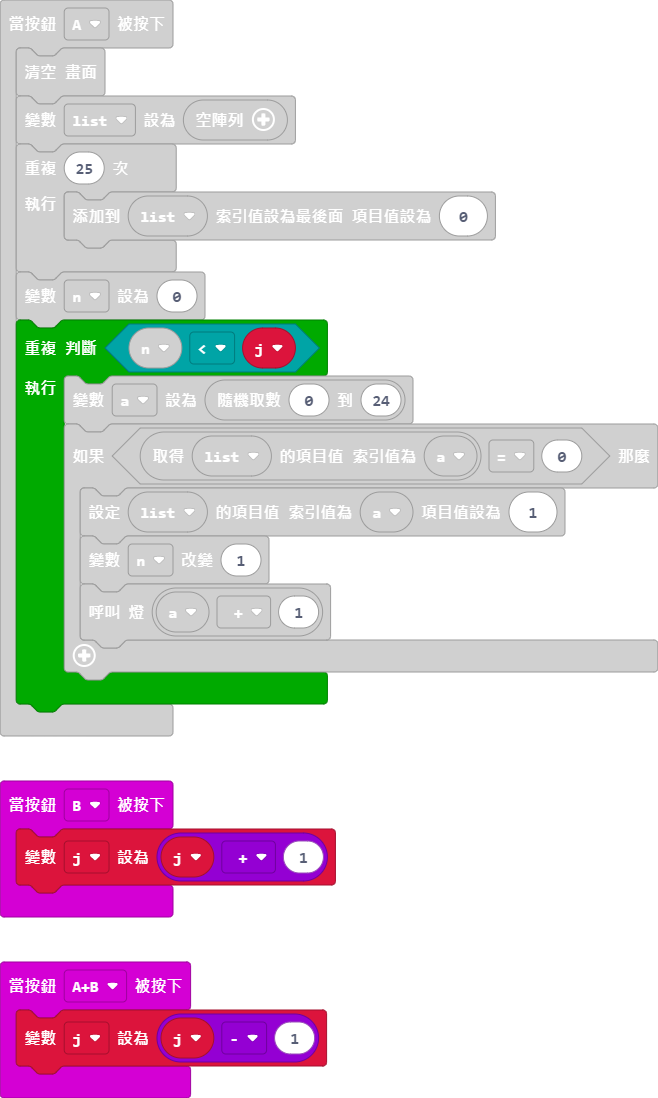
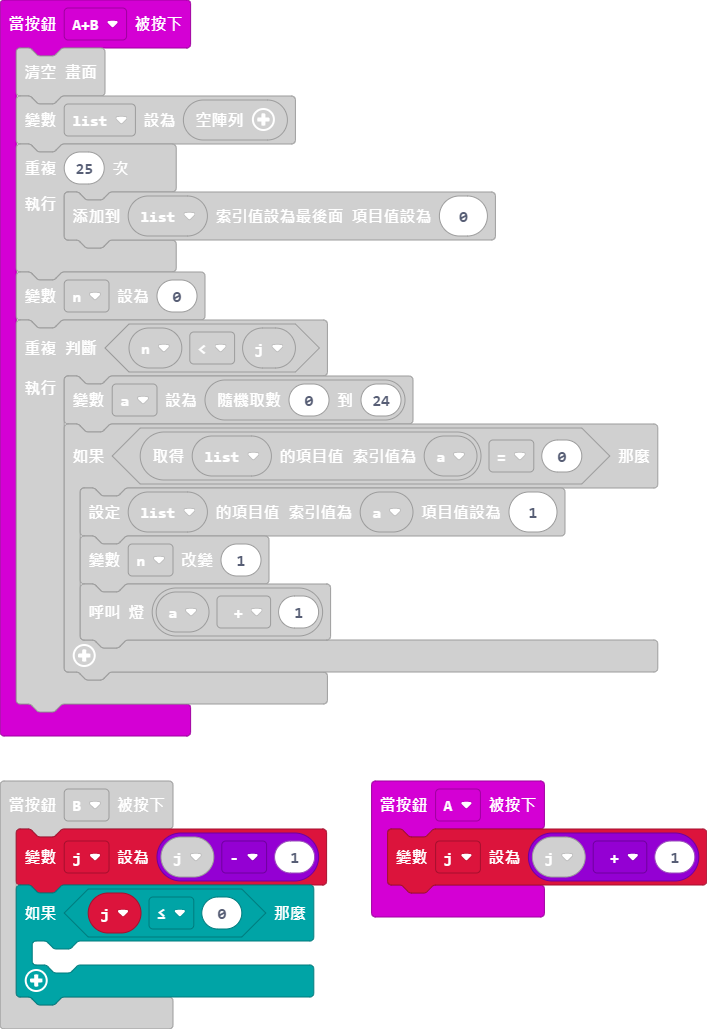
更新 main.blocks, main.ts

diff --git a/main.ts b/main.ts
@@ -1,10 +1,13 @@
+let j = 0
 let list: number[] = []
 let n = 0
-let j = 0
 let a = 0
 let x = 0
 let y = 0
 input.onButtonPressed(Button.A, function () {
+    j = j + 1
+})
+input.onButtonPressed(Button.AB, function () {
     basic.clearScreen()
     list = []
     for (let index = 0; index < 25; index++) {
@@ -20,9 +23,6 @@ input.onButtonPressed(Button.A, function () {
         }
     }
 })
-input.onButtonPressed(Button.AB, function () {
-    j = j - 1
-})
 function 燈 (num: number) {
     if (num % 5 == 0) {
         x = 4
@@ -34,5 +34,8 @@ function 燈 (num: number) {
     led.plot(x, y)
 }
 input.onButtonPressed(Button.B, function () {
-    j = j + 1
+    j = j - 1
+    if (j <= 0) {
+    	
+    }
 })
